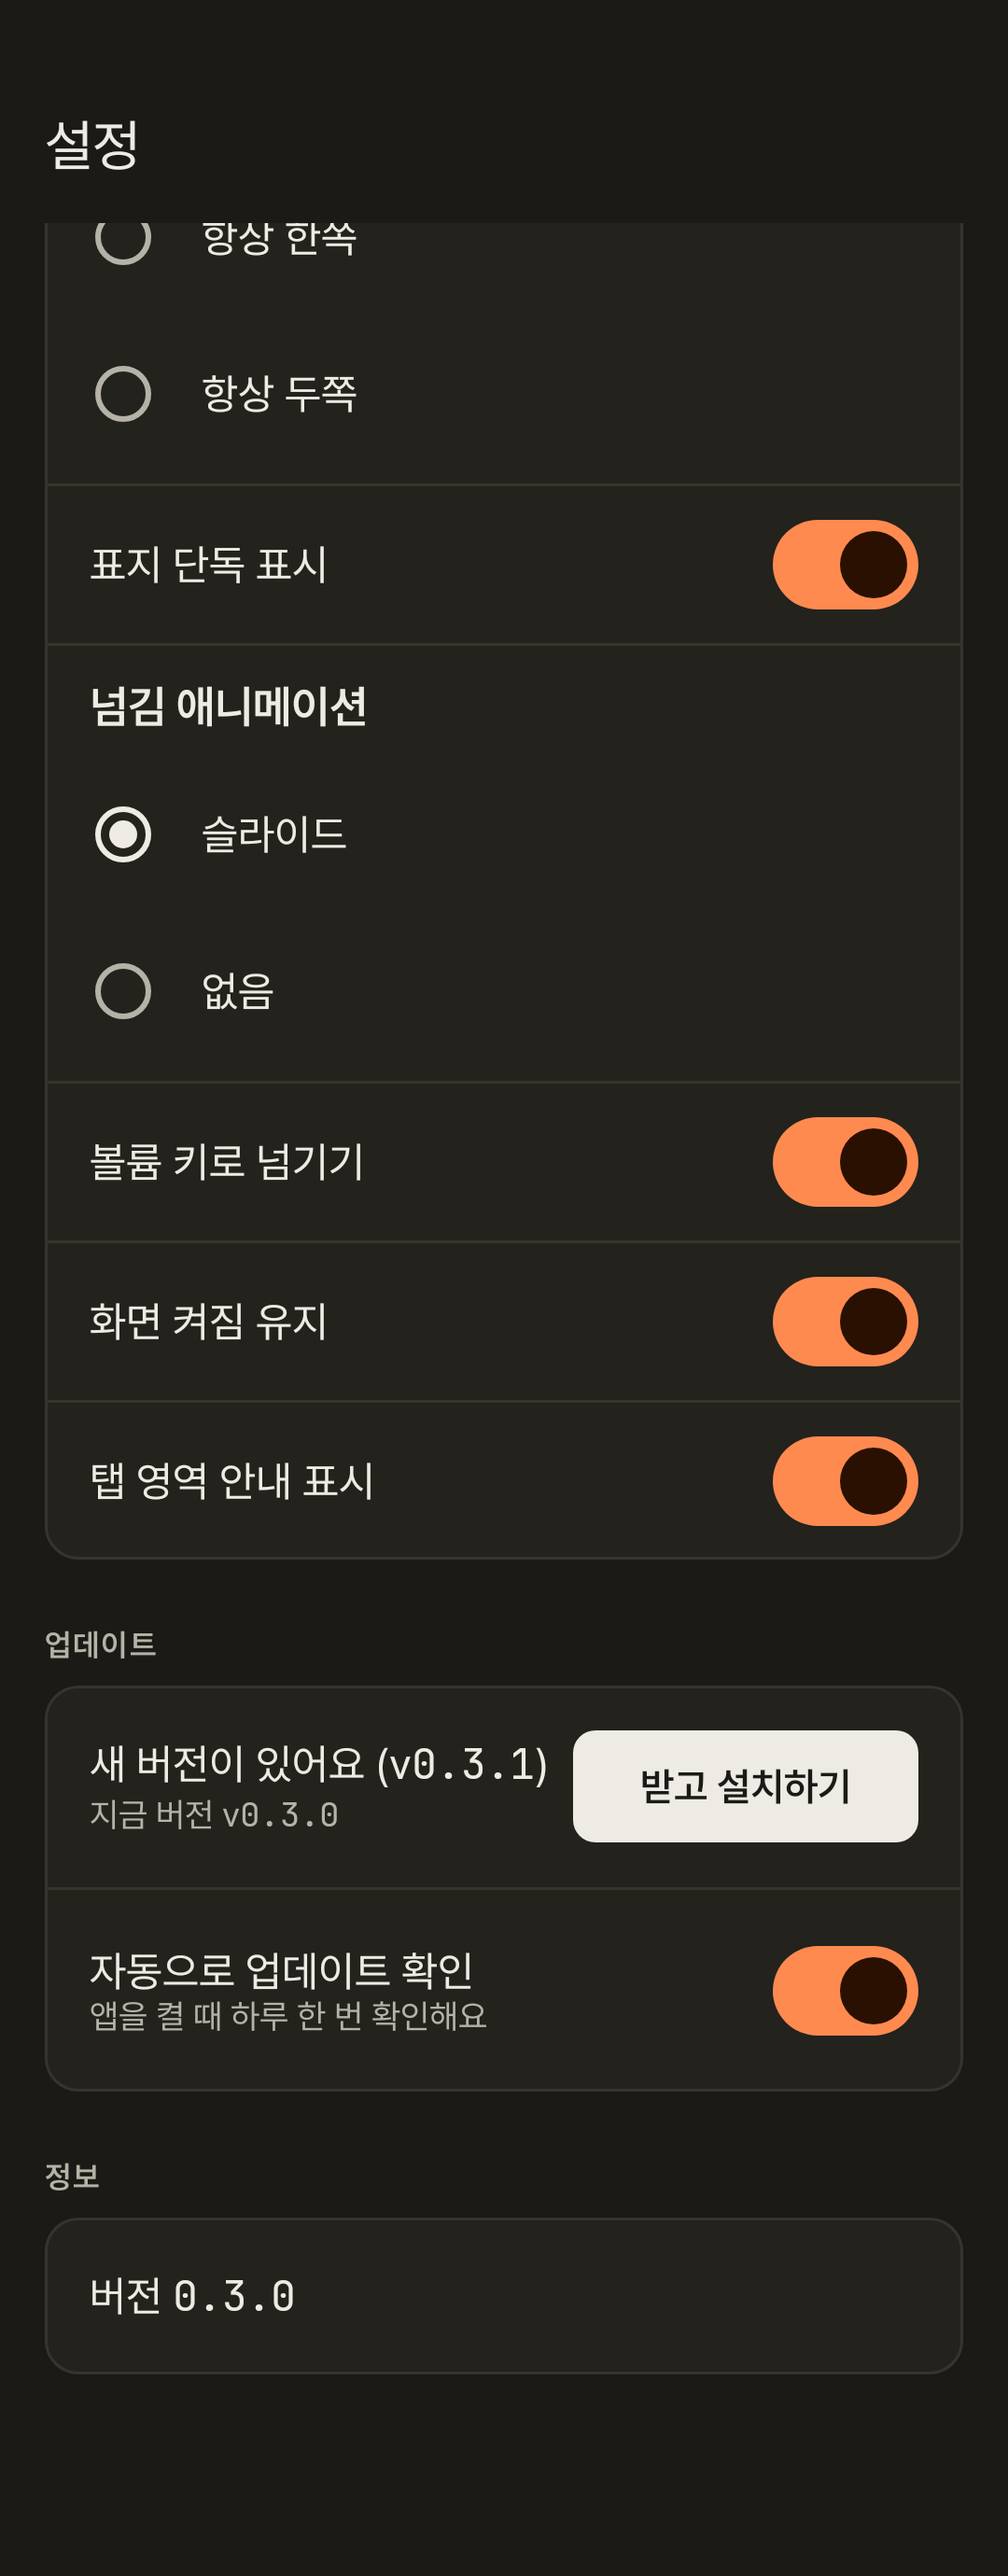
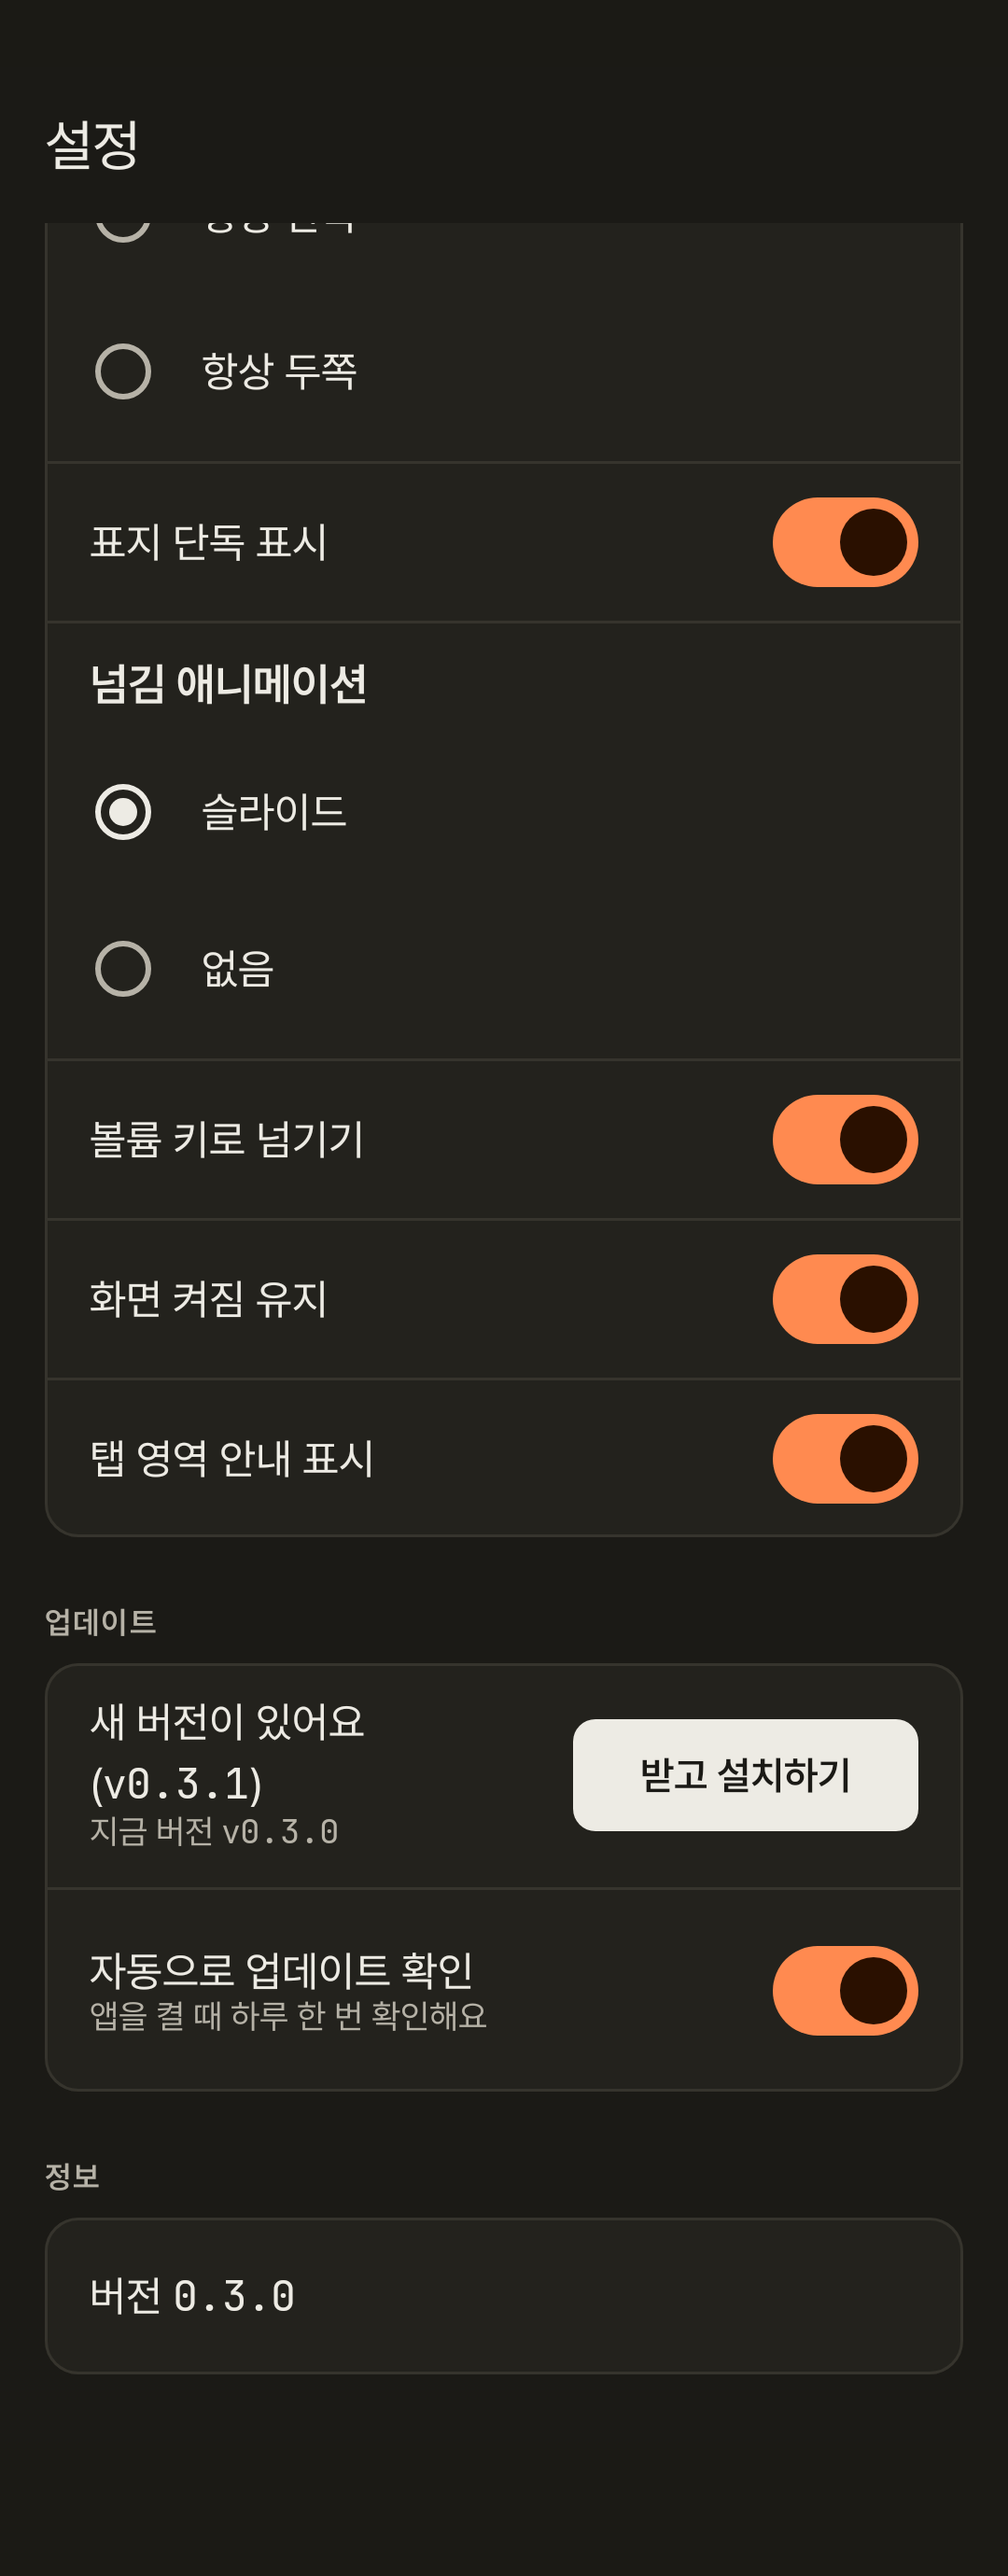
fix(settings): guard auto update check and tidy update row

diff --git a/app/src/main/java/org/parkjw/apps/pdfbook/update/UpdateUi.kt b/app/src/main/java/org/parkjw/apps/pdfbook/update/UpdateUi.kt
@@ -102,7 +102,7 @@ fun updateRow(state: UpdateUiState): UpdateRow = when (state) {
                 when (state.problem) {
                     UpdateProblem.Download -> R.string.update_download_failed
                     UpdateProblem.Verify -> R.string.update_verify_failed
-                    else -> R.string.update_install_failed
+                    UpdateProblem.Install, UpdateProblem.Check -> R.string.update_install_failed
                 },
             ),
             bottomAction = UpdateAction.OpenReleasePage,
@@ -122,7 +122,9 @@ private fun UpdateText.render(currentVersion: String): String = when (this) {
     is UpdateText.Res -> if (arg == null) stringResource(res) else stringResource(res, arg)
     is UpdateText.WithCurrentVersion ->
         if (res == null) displayVersion(currentVersion) else stringResource(res, displayVersion(currentVersion))
-    UpdateText.CurrentVersionLatest -> displayVersion(currentVersion) + " · " + stringResource(R.string.update_latest)
+    UpdateText.CurrentVersionLatest -> listOf(displayVersion(currentVersion), stringResource(R.string.update_latest))
+        .filter { it.isNotEmpty() }
+        .joinToString(" · ")
 }
 
 private fun numeric(size: Int) = SpanStyle(
@@ -144,16 +146,19 @@ fun UpdateCheckBlock(
             .padding(horizontal = PdfBookSpacing.md, vertical = PdfBookSpacing.sm),
         verticalArrangement = Arrangement.spacedBy(PdfBookSpacing.xs),
     ) {
-        Row(verticalAlignment = Alignment.CenterVertically) {
+        Row(
+            verticalAlignment = Alignment.CenterVertically,
+            horizontalArrangement = Arrangement.spacedBy(PdfBookSpacing.sm),
+        ) {
             Column(Modifier.weight(1f)) {
                 Text(
                     text = withNumericSpans(row.title.render(currentVersion), numeric(15)),
                     style = MaterialTheme.typography.bodyLarge,
                     color = MaterialTheme.colorScheme.onSurface,
                 )
-                row.subtitle?.let { subtitle ->
+                row.subtitle?.render(currentVersion)?.takeIf { it.isNotEmpty() }?.let { subtitle ->
                     Text(
-                        text = withNumericSpans(subtitle.render(currentVersion), numeric(12)),
+                        text = withNumericSpans(subtitle, numeric(12)),
                         style = MaterialTheme.typography.bodySmall,
                         color = MaterialTheme.colorScheme.onSurfaceVariant,
                     )

diff --git a/app/src/test/java/org/parkjw/apps/pdfbook/settings/SettingsUpdateUiTest.kt b/app/src/test/java/org/parkjw/apps/pdfbook/settings/SettingsUpdateUiTest.kt
@@ -141,7 +141,7 @@ class SettingsUpdateUiTest {
             }
         }
         composeRule.onNodeWithText("업데이트를 확인하지 못했어요. 인터넷 연결을 확인해 주세요.").performScrollTo().assertIsDisplayed()
-        composeRule.onNodeWithText("확인").assertIsDisplayed()
+        composeRule.onNodeWithText("확인").performClick()
         state = UpdateUiState.Failed(UpdateProblem.Download, RELEASES_PAGE_URL, release)
         composeRule.onNodeWithText("파일을 받지 못했어요").performScrollTo().assertIsDisplayed()
         state = UpdateUiState.Failed(UpdateProblem.Verify, RELEASES_PAGE_URL, release)
@@ -154,7 +154,7 @@ class SettingsUpdateUiTest {
             .performScrollTo()
             .assertIsDisplayed()
         composeRule.onNodeWithText("새 버전이 있어요 (v0.3.1)").assertIsDisplayed()
-        assertEquals(listOf(UpdateAction.OpenReleasePage), actions)
+        assertEquals(listOf(UpdateAction.Check, UpdateAction.OpenReleasePage), actions)
     }
 
     @Test

diff --git a/app/src/main/java/org/parkjw/apps/pdfbook/update/UpdateFlow.kt b/app/src/main/java/org/parkjw/apps/pdfbook/update/UpdateFlow.kt
@@ -51,12 +51,17 @@ class UpdateFlow(
     val state: StateFlow<UpdateUiState> = mutableState.asStateFlow()
     private val downloading = AtomicBoolean(false)
     private val checking = AtomicBoolean(false)
+    private val autoChecking = AtomicBoolean(false)
 
     suspend fun autoCheckOnLaunch(enabled: Boolean) {
-        if (state.value != UpdateUiState.Idle) return
-        val day = today()
-        if (!UpdatePolicy.shouldAutoCheck(enabled, store.lastAutoCheckDay(), day)) return
-        if (check(manual = false)) store.setLastAutoCheckDay(day)
+        if (state.value != UpdateUiState.Idle || !autoChecking.compareAndSet(false, true)) return
+        try {
+            val day = today()
+            if (!UpdatePolicy.shouldAutoCheck(enabled, store.lastAutoCheckDay(), day)) return
+            if (check(manual = false)) store.setLastAutoCheckDay(day)
+        } finally {
+            autoChecking.set(false)
+        }
     }
 
     suspend fun manualCheck() {

diff --git a/app/src/test/java/org/parkjw/apps/pdfbook/update/UpdateFlowTest.kt b/app/src/test/java/org/parkjw/apps/pdfbook/update/UpdateFlowTest.kt
@@ -116,7 +116,9 @@ class UpdateFlowTest {
     @Test
     fun unknownCurrentVersionDoesNotCountAsSuccess() = runBlocking {
         val f = UpdateFlow(
-            checker = UpdateChecker { ReleaseResponse(200, "[]") },
+            checker = UpdateChecker {
+                ReleaseResponse(200, ReleaseFixtures.list(ReleaseFixtures.release("v0.3.1")))
+            },
             downloader = { _, _ -> throw IOException() },
             verifier = { false },
             permission = { true },
